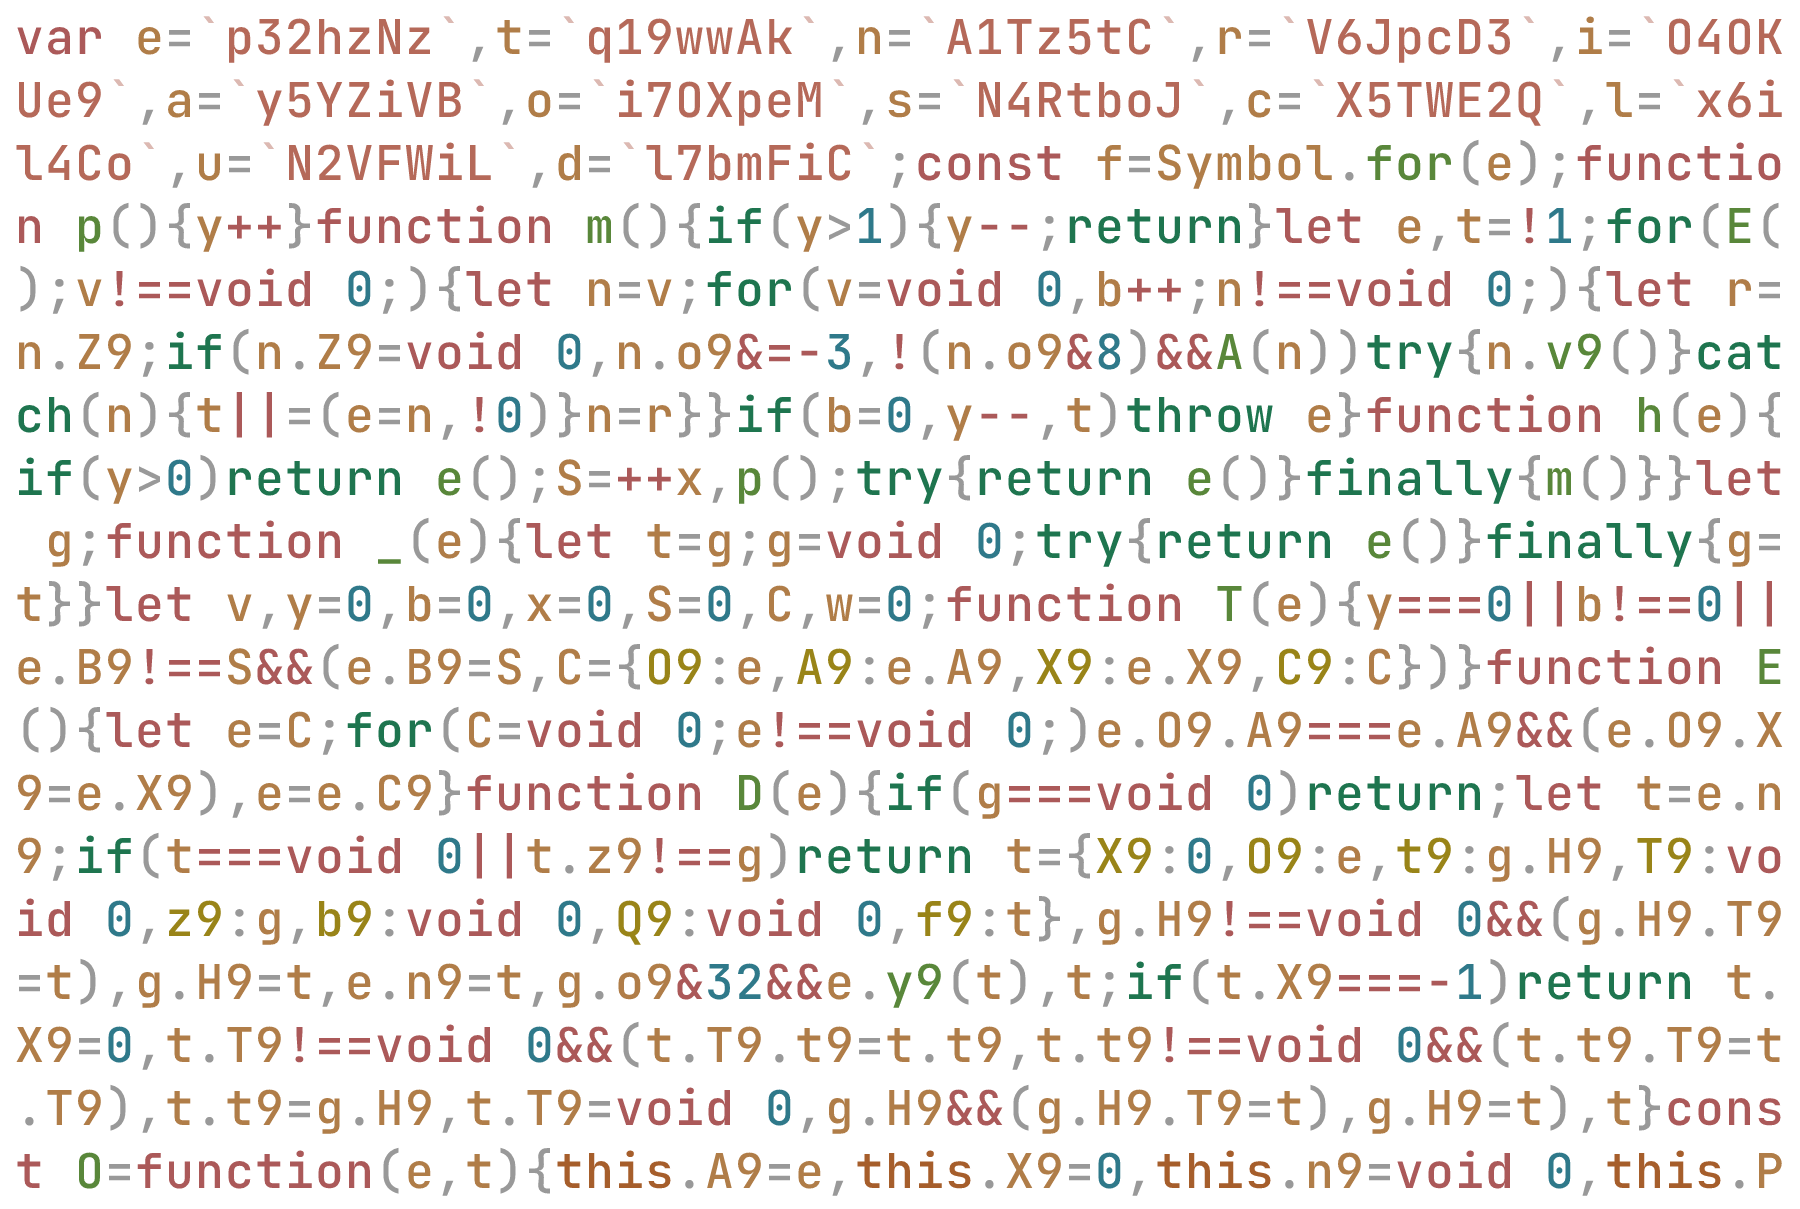
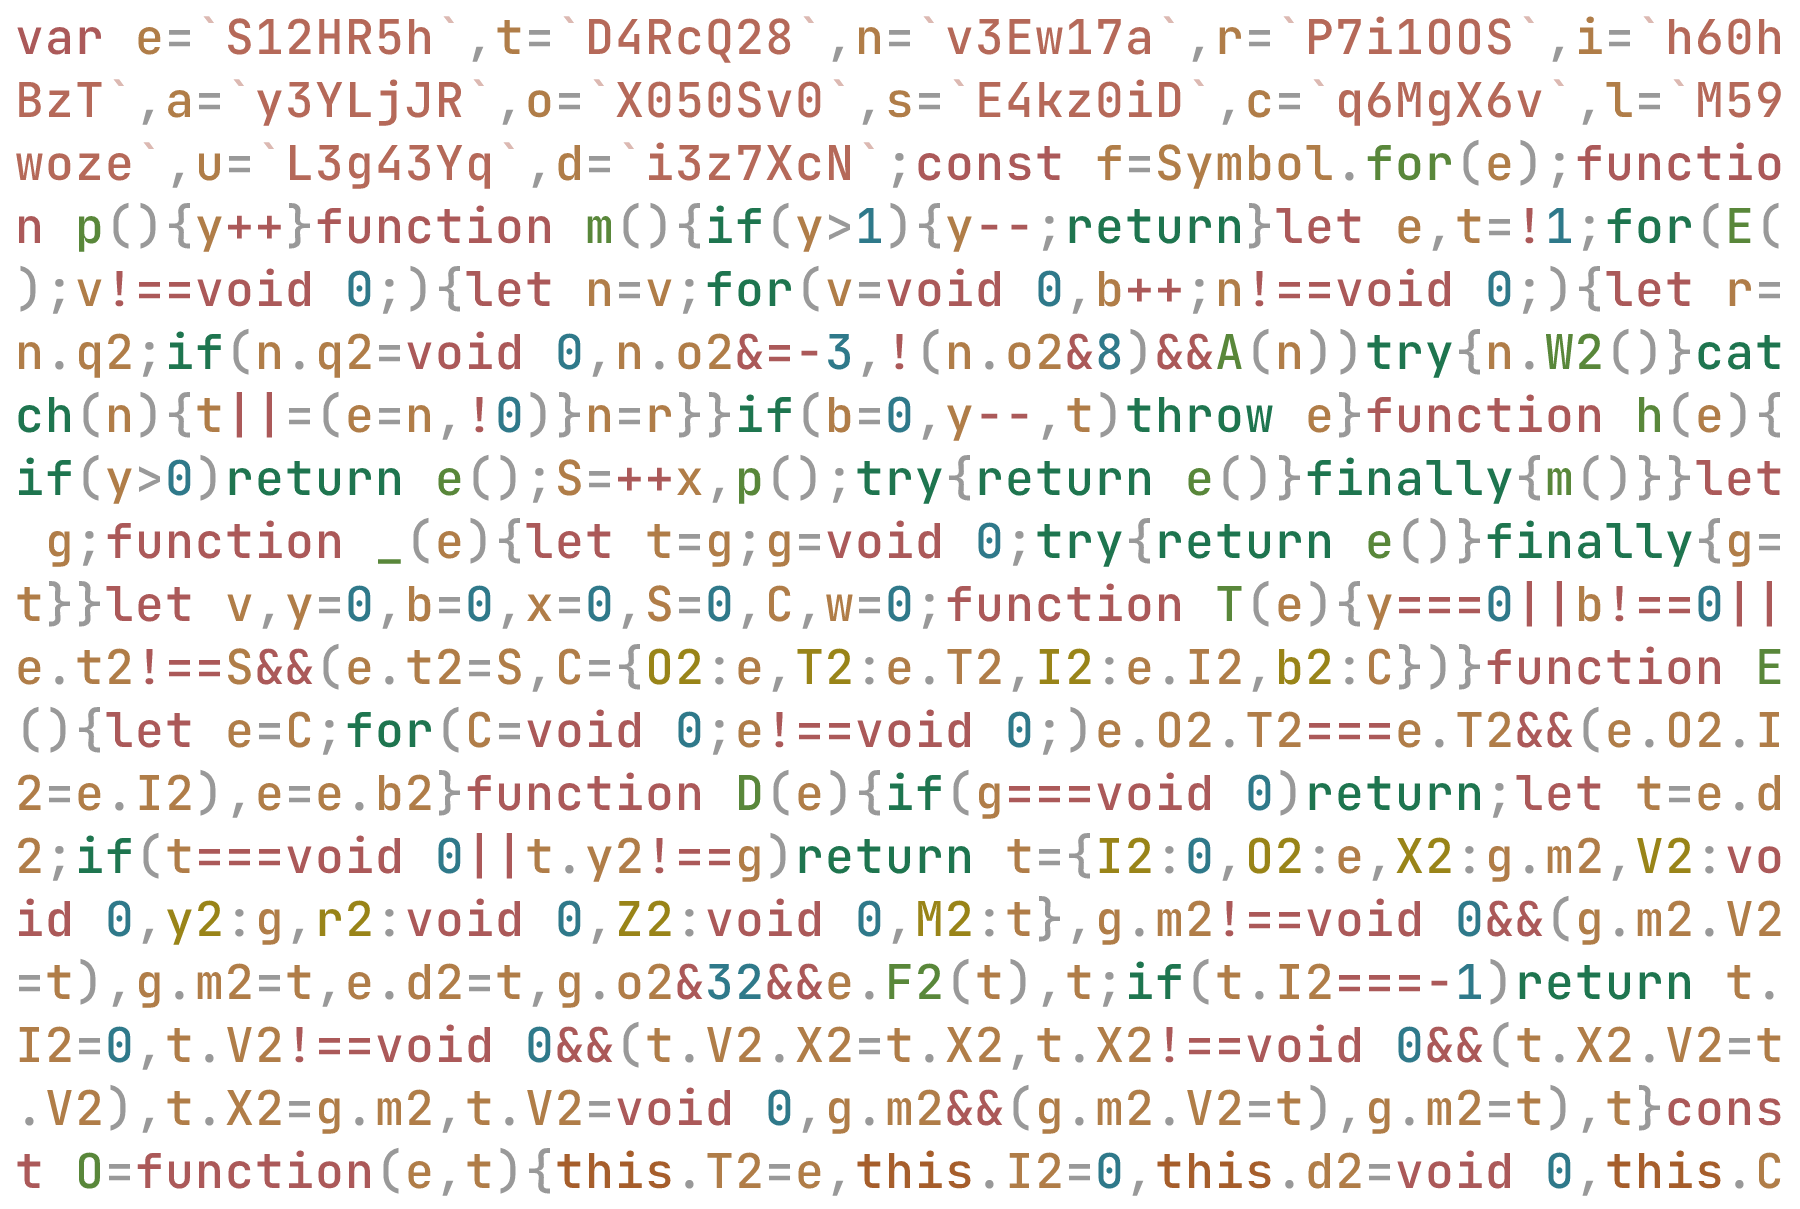
docs: update demo images

diff --git a/demo/signals/dist_sample/keywordified.min.js b/demo/signals/dist_sample/keywordified.min.js
@@ -1,1 +1,1 @@
-var e=`p32hzNz`,t=`q19wwAk`,n=`A1Tz5tC`,r=`V6JpcD3`,i=`O4OKUe9`,a=`y5YZiVB`,o=`i7OXpeM`,s=`N4RtboJ`,c=`X5TWE2Q`,l=`x6il4Co`,u=`N2VFWiL`,d=`l7bmFiC`;const f=Symbol.for(e);function p(){y++}function m(){if(y>1){y--;return}let e,t=!1;for(E();v!==void 0;){let n=v;for(v=void 0,b++;n!==void 0;){let r=n.Z9;if(n.Z9=void 0,n.o9&=-3,!(n.o9&8)&&A(n))try{n.v9()}catch(n){t||=(e=n,!0)}n=r}}if(b=0,y--,t)throw e}function h(e){if(y>0)return e();S=++x,p();try{return e()}finally{m()}}let g;function _(e){let t=g;g=void 0;try{return e()}finally{g=t}}let v,y=0,b=0,x=0,S=0,C,w=0;function T(e){y===0||b!==0||e.B9!==S&&(e.B9=S,C={O9:e,A9:e.A9,X9:e.X9,C9:C})}function E(){let e=C;for(C=void 0;e!==void 0;)e.O9.A9===e.A9&&(e.O9.X9=e.X9),e=e.C9}function D(e){if(g===void 0)return;let t=e.n9;if(t===void 0||t.z9!==g)return t={X9:0,O9:e,t9:g.H9,T9:void 0,z9:g,b9:void 0,Q9:void 0,f9:t},g.H9!==void 0&&(g.H9.T9=t),g.H9=t,e.n9=t,g.o9&32&&e.y9(t),t;if(t.X9===-1)return t.X9=0,t.T9!==void 0&&(t.T9.t9=t.t9,t.t9!==void 0&&(t.t9.T9=t.T9),t.t9=g.H9,t.T9=void 0,g.H9&&(g.H9.T9=t),g.H9=t),t}const O=function(e,t){this.A9=e,this.X9=0,this.n9=void 0,this.P9=void 0,this.B9=0,this.i9=t?.[o],this.c9=t?.[s],this[n]=t?.[n]};O.prototype[i]=f,O.prototype.S9=()=>!0,O.prototype.y9=function(e){let t=this.P9;t!==e&&e.b9===void 0&&(e.Q9=t,this.P9=e,t===void 0?_(()=>{this.i9?.call(this)}):t.b9=e)},O.prototype.I9=function(e){if(this.P9!==void 0){let t=e.b9,n=e.Q9;t!==void 0&&(t.Q9=n,e.b9=void 0),n!==void 0&&(n.b9=t,e.Q9=void 0),e===this.P9&&(this.P9=n,n===void 0&&_(()=>{this.c9?.call(this)}))}},O.prototype[t]=function(e){return B(()=>{let t=this[a],n=g;g=void 0;try{e(t)}finally{g=n}},{[n]:c})},O.prototype[r]=function(){return _(()=>this[a])},O.prototype.valueOf=function(){return this[a]},O.prototype.toString=function(){return this[a]+``},O.prototype.toJSON=function(){return this[a]},Object.defineProperty(O.prototype,a,{get(){let e=D(this);return e!==void 0&&(e.X9=this.X9),this.A9},set(e){if(e!==this.A9){if(b>100)throw Error(l);T(this),this.A9=e,this.X9++,w++,p();try{for(let e=this.P9;e!==void 0;e=e.Q9)e.z9.k9()}finally{m()}}}});function k(e,t){return new O(e,t)}function A(e){for(let t=e.H9;t!==void 0;t=t.T9)if(t.O9.X9!==t.X9||!t.O9.S9()||t.O9.X9!==t.X9)return!0;return!1}function j(e){for(let t=e.H9;t!==void 0;t=t.T9){let n=t.O9.n9;if(n!==void 0&&(t.f9=n),t.O9.n9=t,t.X9=-1,t.T9===void 0){e.H9=t;break}}}function M(e){let t=e.H9,n;for(;t!==void 0;){let e=t.t9;t.X9===-1?(t.O9.I9(t),e!==void 0&&(e.T9=t.T9),t.T9!==void 0&&(t.T9.t9=e)):n=t,t.O9.n9=t.f9,t.f9!==void 0&&(t.f9=void 0),t=e}e.H9=n}const N=function(e,t){O.call(this,void 0),this.D9=e,this.H9=void 0,this.R9=w-1,this.o9=4,this.i9=t?.[o],this.c9=t?.[s],this[n]=t?.[n]};N.prototype=new O,N.prototype.S9=function(){if(this.o9&=-3,this.o9&1)return!1;if((this.o9&36)==32||(this.o9&=-5,this.R9===w))return!0;if(this.R9=w,this.o9|=1,this.X9>0&&!A(this))return this.o9&=-2,!0;let e=g;try{j(this),g=this;let e=this.D9();(this.o9&16||this.A9!==e||this.X9===0)&&(this.A9=e,this.o9&=-17,this.X9++)}catch(e){this.A9=e,this.o9|=16,this.X9++}return g=e,M(this),this.o9&=-2,!0},N.prototype.y9=function(e){if(this.P9===void 0){this.o9|=36;for(let e=this.H9;e!==void 0;e=e.T9)e.O9.y9(e)}O.prototype.y9.call(this,e)},N.prototype.I9=function(e){if(this.P9!==void 0&&(O.prototype.I9.call(this,e),this.P9===void 0)){this.o9&=-33;for(let e=this.H9;e!==void 0;e=e.T9)e.O9.I9(e)}},N.prototype.k9=function(){if(!(this.o9&2)){this.o9|=6;for(let e=this.P9;e!==void 0;e=e.Q9)e.z9.k9()}},Object.defineProperty(N.prototype,a,{get(){if(this.o9&1)throw Error(l);let e=D(this);if(this.S9(),e!==void 0&&(e.X9=this.X9),this.o9&16)throw this.A9;return this.A9}});function P(e,t){return new N(e,t)}function F(e){let t=e.w9;if(e.w9=void 0,typeof t==`function`){p();let n=g;g=void 0;try{t()}catch(t){throw e.o9&=-2,e.o9|=8,I(e),t}finally{g=n,m()}}}function I(e){for(let t=e.H9;t!==void 0;t=t.T9)t.O9.I9(t);e.D9=void 0,e.H9=void 0,F(e)}function L(e){if(g!==this)throw Error(u);M(this),g=e,this.o9&=-2,this.o9&8&&I(this),m()}let R;const z=function(e,t){this.D9=e,this.w9=void 0,this.H9=void 0,this.Z9=void 0,this.o9=32,this[n]=t?.[n],R&&R.push(this)};z.prototype.v9=function(){let e=this.U9();try{if(this.o9&8||this.D9===void 0)return;let e=this.D9();typeof e==`function`&&(this.w9=e)}finally{e()}},z.prototype.U9=function(){if(this.o9&1)throw Error(l);this.o9|=1,this.o9&=-9,F(this),j(this),p();let e=g;return g=this,L.bind(this,e)},z.prototype.k9=function(){this.o9&2||(this.o9|=2,this.Z9=v,v=this)},z.prototype.K9=function(){this.o9|=8,this.o9&1||I(this)},z.prototype[d]=function(){this.K9()};function B(e,t){let n=new z(e,t);try{n.v9()}catch(e){throw n.K9(),e}let r=n.K9.bind(n);return Object.assign(r,{[Symbol.dispose]:r}),r}function V(e){return function(...t){return h(()=>_(()=>e.apply(this,t)))}}function H(){let e=R;return R=[],function(){let t=R;return R&&e&&(e=e.concat(R)),R=e,t}}const U=e=>{let t=Reflect.ownKeys(e);for(let n=0;n<t.length;n++){let r=t[n],i=e[r];typeof i==`function`?e[r]=V(i):typeof i==`object`&&i&&!(`O4OKUe9`in i)&&U(i)}};function W(e){return function(...t){let n,r,i=H();try{r=e(...t)}catch(e){throw R=void 0,e}finally{n=i()}return U(r),r[Symbol.dispose]=V(function(){let e=n;if(e)for(let t=0;t<e.length;t++)e[t]?.[d]();n=void 0}),r}}export{N as Computed,z as Effect,O as Signal,V as action,h as batch,P as computed,W as createModel,B as effect,k as signal,_ as untracked};
+var e=`S12HR5h`,t=`D4RcQ28`,n=`v3Ew17a`,r=`P7i1OOS`,i=`h60hBzT`,a=`y3YLjJR`,o=`X050Sv0`,s=`E4kz0iD`,c=`q6MgX6v`,l=`M59woze`,u=`L3g43Yq`,d=`i3z7XcN`;const f=Symbol.for(e);function p(){y++}function m(){if(y>1){y--;return}let e,t=!1;for(E();v!==void 0;){let n=v;for(v=void 0,b++;n!==void 0;){let r=n.q2;if(n.q2=void 0,n.o2&=-3,!(n.o2&8)&&A(n))try{n.W2()}catch(n){t||=(e=n,!0)}n=r}}if(b=0,y--,t)throw e}function h(e){if(y>0)return e();S=++x,p();try{return e()}finally{m()}}let g;function _(e){let t=g;g=void 0;try{return e()}finally{g=t}}let v,y=0,b=0,x=0,S=0,C,w=0;function T(e){y===0||b!==0||e.t2!==S&&(e.t2=S,C={O2:e,T2:e.T2,I2:e.I2,b2:C})}function E(){let e=C;for(C=void 0;e!==void 0;)e.O2.T2===e.T2&&(e.O2.I2=e.I2),e=e.b2}function D(e){if(g===void 0)return;let t=e.d2;if(t===void 0||t.y2!==g)return t={I2:0,O2:e,X2:g.m2,V2:void 0,y2:g,r2:void 0,Z2:void 0,M2:t},g.m2!==void 0&&(g.m2.V2=t),g.m2=t,e.d2=t,g.o2&32&&e.F2(t),t;if(t.I2===-1)return t.I2=0,t.V2!==void 0&&(t.V2.X2=t.X2,t.X2!==void 0&&(t.X2.V2=t.V2),t.X2=g.m2,t.V2=void 0,g.m2&&(g.m2.V2=t),g.m2=t),t}const O=function(e,t){this.T2=e,this.I2=0,this.d2=void 0,this.C2=void 0,this.t2=0,this.s2=t?.[o],this.K2=t?.[s],this[n]=t?.[n]};O.prototype[i]=f,O.prototype.N2=()=>!0,O.prototype.F2=function(e){let t=this.C2;t!==e&&e.r2===void 0&&(e.Z2=t,this.C2=e,t===void 0?_(()=>{this.s2?.call(this)}):t.r2=e)},O.prototype.S2=function(e){if(this.C2!==void 0){let t=e.r2,n=e.Z2;t!==void 0&&(t.Z2=n,e.r2=void 0),n!==void 0&&(n.r2=t,e.Z2=void 0),e===this.C2&&(this.C2=n,n===void 0&&_(()=>{this.K2?.call(this)}))}},O.prototype[t]=function(e){return B(()=>{let t=this[a],n=g;g=void 0;try{e(t)}finally{g=n}},{[n]:c})},O.prototype[r]=function(){return _(()=>this[a])},O.prototype.valueOf=function(){return this[a]},O.prototype.toString=function(){return this[a]+``},O.prototype.toJSON=function(){return this[a]},Object.defineProperty(O.prototype,a,{get(){let e=D(this);return e!==void 0&&(e.I2=this.I2),this.T2},set(e){if(e!==this.T2){if(b>100)throw Error(l);T(this),this.T2=e,this.I2++,w++,p();try{for(let e=this.C2;e!==void 0;e=e.Z2)e.y2.x2()}finally{m()}}}});function k(e,t){return new O(e,t)}function A(e){for(let t=e.m2;t!==void 0;t=t.V2)if(t.O2.I2!==t.I2||!t.O2.N2()||t.O2.I2!==t.I2)return!0;return!1}function j(e){for(let t=e.m2;t!==void 0;t=t.V2){let n=t.O2.d2;if(n!==void 0&&(t.M2=n),t.O2.d2=t,t.I2=-1,t.V2===void 0){e.m2=t;break}}}function M(e){let t=e.m2,n;for(;t!==void 0;){let e=t.X2;t.I2===-1?(t.O2.S2(t),e!==void 0&&(e.V2=t.V2),t.V2!==void 0&&(t.V2.X2=e)):n=t,t.O2.d2=t.M2,t.M2!==void 0&&(t.M2=void 0),t=e}e.m2=n}const N=function(e,t){O.call(this,void 0),this.l2=e,this.m2=void 0,this.e2=w-1,this.o2=4,this.s2=t?.[o],this.K2=t?.[s],this[n]=t?.[n]};N.prototype=new O,N.prototype.N2=function(){if(this.o2&=-3,this.o2&1)return!1;if((this.o2&36)==32||(this.o2&=-5,this.e2===w))return!0;if(this.e2=w,this.o2|=1,this.I2>0&&!A(this))return this.o2&=-2,!0;let e=g;try{j(this),g=this;let e=this.l2();(this.o2&16||this.T2!==e||this.I2===0)&&(this.T2=e,this.o2&=-17,this.I2++)}catch(e){this.T2=e,this.o2|=16,this.I2++}return g=e,M(this),this.o2&=-2,!0},N.prototype.F2=function(e){if(this.C2===void 0){this.o2|=36;for(let e=this.m2;e!==void 0;e=e.V2)e.O2.F2(e)}O.prototype.F2.call(this,e)},N.prototype.S2=function(e){if(this.C2!==void 0&&(O.prototype.S2.call(this,e),this.C2===void 0)){this.o2&=-33;for(let e=this.m2;e!==void 0;e=e.V2)e.O2.S2(e)}},N.prototype.x2=function(){if(!(this.o2&2)){this.o2|=6;for(let e=this.C2;e!==void 0;e=e.Z2)e.y2.x2()}},Object.defineProperty(N.prototype,a,{get(){if(this.o2&1)throw Error(l);let e=D(this);if(this.N2(),e!==void 0&&(e.I2=this.I2),this.o2&16)throw this.T2;return this.T2}});function P(e,t){return new N(e,t)}function F(e){let t=e.c2;if(e.c2=void 0,typeof t==`function`){p();let n=g;g=void 0;try{t()}catch(t){throw e.o2&=-2,e.o2|=8,I(e),t}finally{g=n,m()}}}function I(e){for(let t=e.m2;t!==void 0;t=t.V2)t.O2.S2(t);e.l2=void 0,e.m2=void 0,F(e)}function L(e){if(g!==this)throw Error(u);M(this),g=e,this.o2&=-2,this.o2&8&&I(this),m()}let R;const z=function(e,t){this.l2=e,this.c2=void 0,this.m2=void 0,this.q2=void 0,this.o2=32,this[n]=t?.[n],R&&R.push(this)};z.prototype.W2=function(){let e=this.L2();try{if(this.o2&8||this.l2===void 0)return;let e=this.l2();typeof e==`function`&&(this.c2=e)}finally{e()}},z.prototype.L2=function(){if(this.o2&1)throw Error(l);this.o2|=1,this.o2&=-9,F(this),j(this),p();let e=g;return g=this,L.bind(this,e)},z.prototype.x2=function(){this.o2&2||(this.o2|=2,this.q2=v,v=this)},z.prototype.B2=function(){this.o2|=8,this.o2&1||I(this)},z.prototype[d]=function(){this.B2()};function B(e,t){let n=new z(e,t);try{n.W2()}catch(e){throw n.B2(),e}let r=n.B2.bind(n);return Object.assign(r,{[Symbol.dispose]:r}),r}function V(e){return function(...t){return h(()=>_(()=>e.apply(this,t)))}}function H(){let e=R;return R=[],function(){let t=R;return R&&e&&(e=e.concat(R)),R=e,t}}const U=e=>{let t=Reflect.ownKeys(e);for(let n=0;n<t.length;n++){let r=t[n],i=e[r];typeof i==`function`?e[r]=V(i):typeof i==`object`&&i&&!(`h60hBzT`in i)&&U(i)}};function W(e){return function(...t){let n,r,i=H();try{r=e(...t)}catch(e){throw R=void 0,e}finally{n=i()}return U(r),r[Symbol.dispose]=V(function(){let e=n;if(e)for(let t=0;t<e.length;t++)e[t]?.[d]();n=void 0}),r}}export{N as Computed,z as Effect,O as Signal,V as action,h as batch,P as computed,W as createModel,B as effect,k as signal,_ as untracked};
